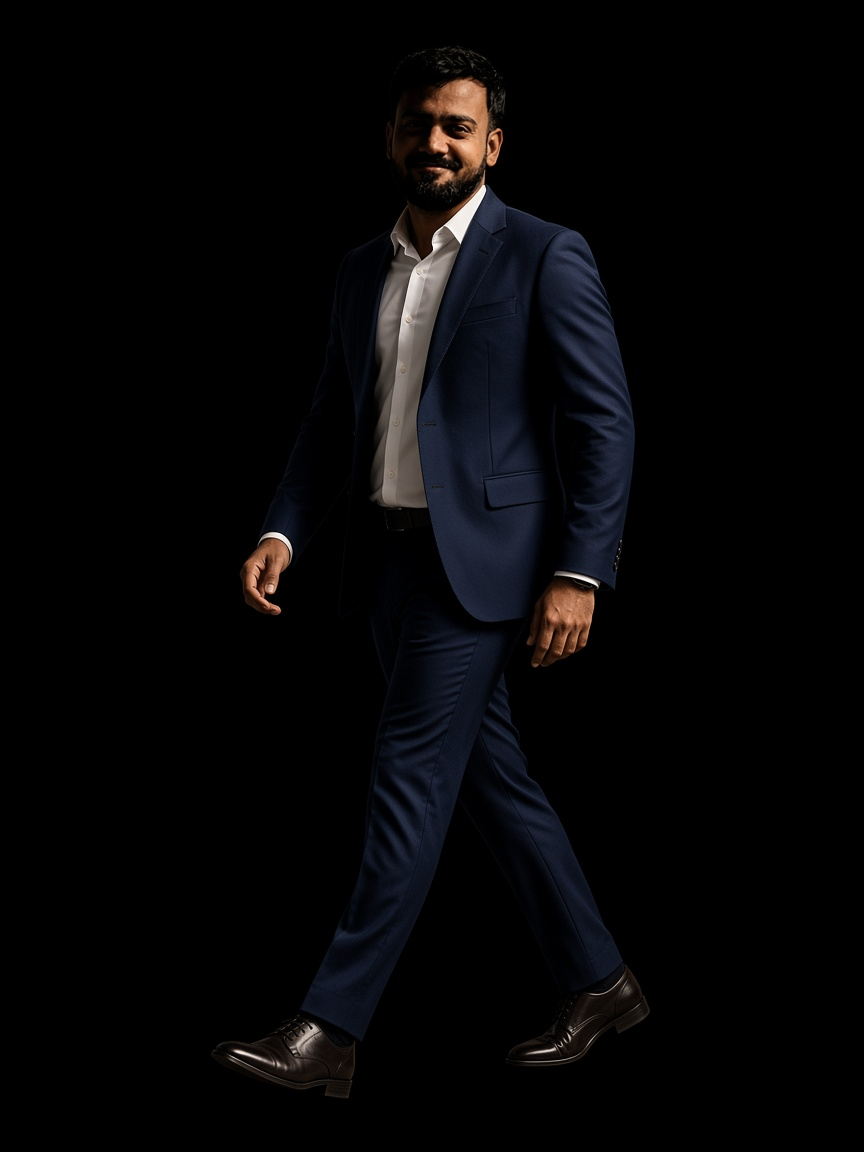
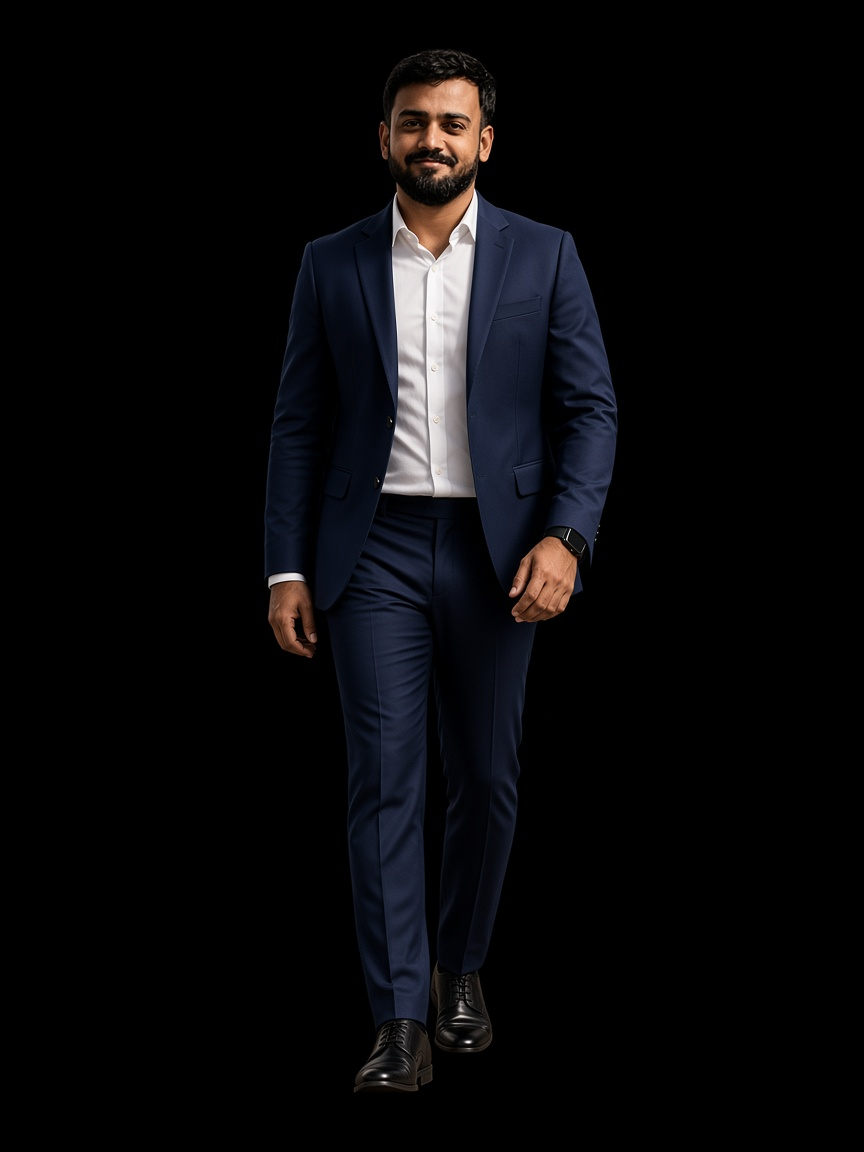
Switch hero walk assets to a front-facing toward-camera pose.
Use the Flow clip facing the viewer and update poster fallbacks to match.

Changed region(s): [[0.25, 0.0312, 0.75, 0.9688], [0.5938, 0.875, 0.6875, 0.9375]]

diff --git a/FLOW_HERO_VIDEO.md b/FLOW_HERO_VIDEO.md
@@ -1,20 +1,22 @@
-# Google Flow — hero walk video
+# Google Flow — hero walk video (front-facing)
 
-Project (already generated): https://flow.google.com/project/6495030a-b0c1-4feb-ad06-cdb9402e3885
+Project: https://flow.google.com/project/6495030a-b0c1-4feb-ad06-cdb9402e3885
 
-Clip title: **Man walking slowly** (Omni 1.1 Flash · 720p · 10s · black background)
+Use this clip: **Man walking toward camera** (front-facing · Omni · 720p · 10s · black background)
+
+Ignore older side-profile clips (`Man walking slowly`, `Man walking in dark suit`).
 
 ## Finish wiring
 1. Open the project link above
-2. Open the **Man walking slowly** scene → **⋯** → **Download**
+2. Open **Man walking toward camera** → **⋯** → **Download**
 3. Save as `public/videos/hero.mp4` in this repo
 4. Tell the agent to redeploy
 
 ## Prompt used
 ```
-Using @Me avatar: photorealistic cinematic full-body walk cycle of this man walking slowly from right to left on pure solid black background, professional dark navy suit white shirt, natural gait, soft cinematic lighting, no floor no props no text, locked camera, head to toe in frame, seamless loop for portfolio hero video
+Using @Me avatar: photorealistic cinematic full-body FRONT-FACING walk cycle. The man walks straight toward the camera, facing the viewer, looking at camera, on pure solid black background. Professional dark navy suit white shirt. Natural confident gait, soft frontal cinematic lighting, no floor no props no text, locked camera eye-level, head to toe fully in frame including shoes, seamless loop for portfolio hero video. NOT side profile — must be facing camera.
 ```
 
-Start frame / poster also at `public/videos/walk-start.png` and `public/videos/hero-poster.png`.
+Poster / fallback: `public/videos/walk-start.png` and `public/videos/hero-poster.png` (front-facing still).
 
 Hero layout mirrors https://github.com/lohithadamisetti123/cinematic-portfolio (`/videos/hero.mp4` on the right).
